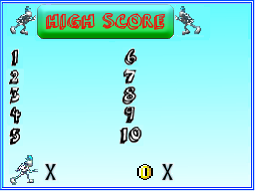
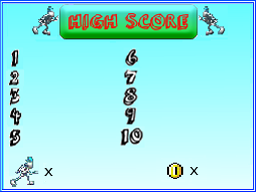
Números alineados a la izquierda

diff --git a/source/estado_avanzar.c b/source/estado_avanzar.c
@@ -281,8 +281,8 @@ void actualizar_nubes() {
  * ** OAM Index Sub: se reservan del 100 al 114
  */
 void actualizar_puntuacion() {
-	imprimir_numeros_sub(100, 165, DistanciaRecorrida/100, 100);
-	imprimir_numeros_sub(200, 165, MonedasRecogidas, 110);
+	imprimir_numeros_sub(58, 165, DistanciaRecorrida/100, 100);
+	imprimir_numeros_sub(205, 165, MonedasRecogidas, 110);
 }
 
 
